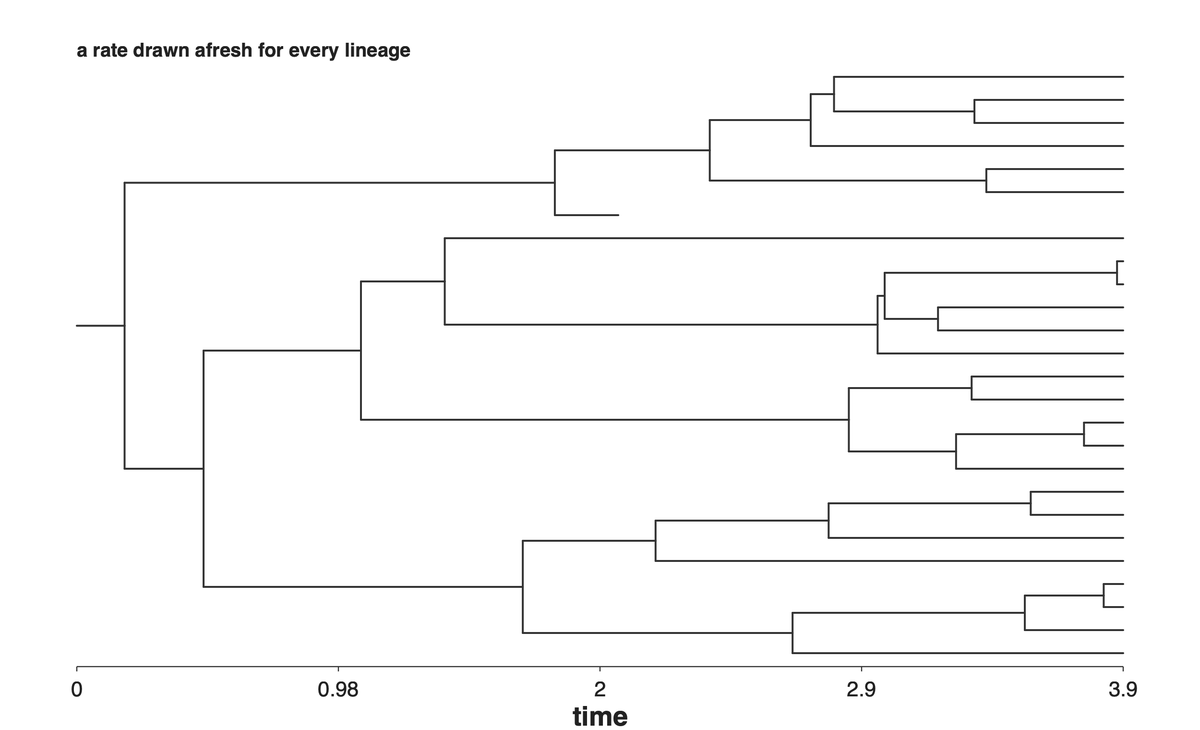
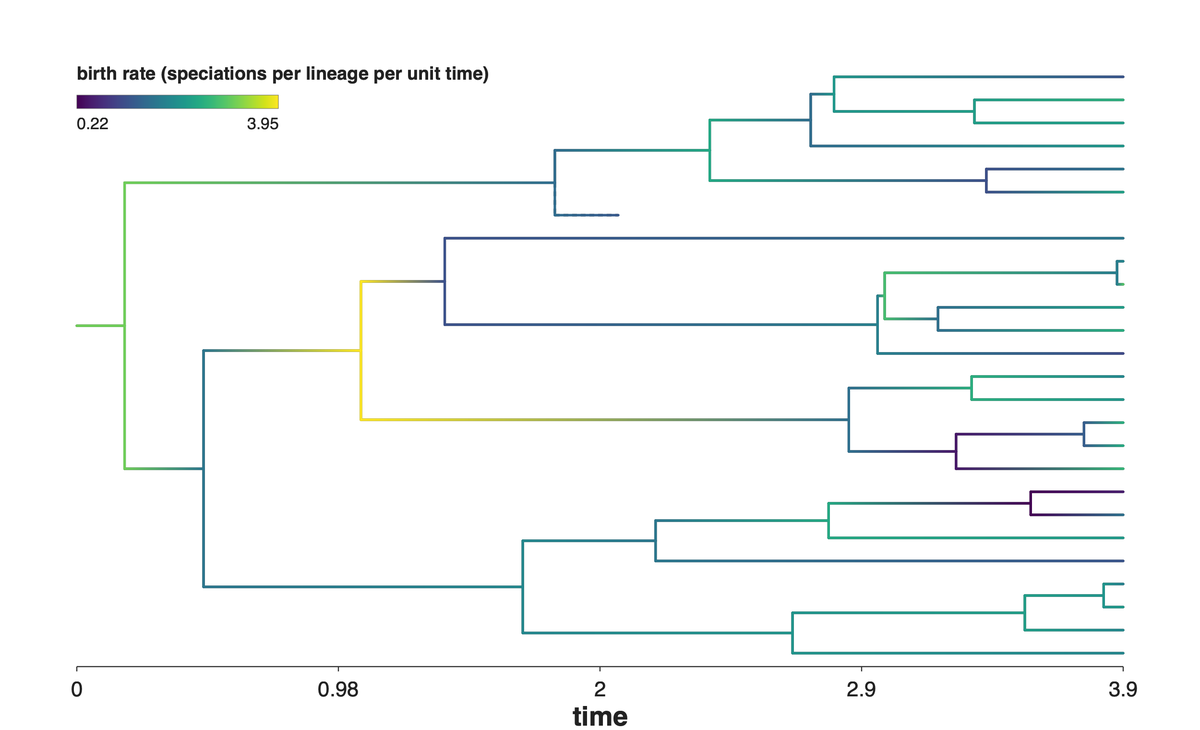
feat(species): a lineage says which rate it ran under
A tree records what happened, not the rate it happened under, and under
`varying_among('lineages', …)` those are different things: two runs with the same shape
can come from very different rates, and the number each lineage carried had nowhere to
be read. `SpeciesResult.lineage_rates("birth" | "death")` gives it back, keyed by
lineage as every output file names them, taken at the lineage's birth — which is when
its factors are drawn, and which the docstring says, because a rate that also depends
on time or diversity keeps moving along the branch.

The engine records it as it grows: no draw is added, so a run's stream is unchanged.

With it, the two varying-rate cards colour every branch by the rate that lineage ran
under, on one scale they share — inherited comes out in clades, independent
salt-and-pepper — and they are named for what they are, Inherited rates and Independent
rates. Their extinct branches are dashed, as everywhere else in the section, and the
label that sat in the corner is gone: the card's title already says which is which.

Ge4 is "Gene family heterogeneity". The protein alignment carries its letters, and each
amino acid now has its own shade of its class's hue (Phylustrator 0.2.11).

diff --git a/zombi2/species/__init__.py b/zombi2/species/__init__.py
@@ -65,6 +65,9 @@ class SpeciesResult:
     #: recovered fossils as ``(lineage_id, time)`` pairs, sorted by time — a side output, present
     #: only when ``fossils`` was set; the fossil's lineage is not removed and is not in the extant tree
     fossils: list[tuple[int, float]] = field(default_factory=list)
+    #: each lineage's own ``(birth, death)`` rate at the moment it was born, keyed by node id.
+    #: Read it through `lineage_rates`, which names the lineages as every output file does.
+    rates_at_birth: dict[int, tuple[float, float]] = field(default_factory=dict, repr=False)
 
     def __repr__(self) -> str:
         fossils = f", {len(self.fossils)} fossils" if self.fossils else ""
@@ -84,6 +87,28 @@ class SpeciesResult:
         ``simulate_species_tree`` refuses to return: a run with no present raises there instead, so a
         result that came from it always has one."""
         return prune(self.complete_tree, keep="extant")
+
+    def lineage_rates(self, kind: str = "birth") -> dict[str, float]:
+        """``{lineage: rate}`` — the rate that lineage itself ran under, in events per unit time.
+
+        A rate that varies among lineages gives every lineage a factor of its own, and the tree
+        records only what happened, not the rate it happened under: two runs with the same shape can
+        come from very different rates. This is that number, for the lineage rather than for the run
+        — the base with this lineage's own factors applied — so a branch can be coloured by it.
+
+        Taken **at the lineage's birth**, which is when its factors are drawn. A rate that also
+        depends on time or on standing diversity keeps moving along the branch afterwards; this is
+        its value at the start of it. A rate that varies among lineages in no way gives the same
+        number for every lineage, which is correct rather than useless: it is that rate.
+
+        Lineages are named as every output file names them (``n12``), so the result drops straight
+        into a plot keyed by tip name.
+        """
+        if kind not in ("birth", "death"):
+            raise ValueError(f"kind must be 'birth' or 'death', got {kind!r}")
+        label = self.complete_tree.labels()
+        j = 0 if kind == "birth" else 1
+        return {label[i]: r[j] for i, r in self.rates_at_birth.items() if i in label}
 
     def summary(self) -> dict:
         """What this run produced, as a plain dict — the payload of ``species_summary.json``.
@@ -200,7 +225,7 @@ def _per_lineage(rate) -> tuple:
 
 def _grow(rng, birth_rate, death_rate, n_extant: int | None, total_time: float | None,
           pulses: list[tuple[float, float]], progress: bool = False,
-          max_lineages: int | None = None) -> tuple[Tree, list[Event]]:
+          max_lineages: int | None = None) -> tuple[Tree, list[Event], dict[int, tuple[float, float]]]:
     """Grow one forward birth-death tree until it reaches ``n_extant`` living lineages,
     reaches ``total_time``, or dies out. Returns the complete tree and the event log.
 
@@ -210,6 +235,10 @@ def _grow(rng, birth_rate, death_rate, n_extant: int | None, total_time: float |
     daughter's factor is its parent's, nudged at the split (clade drift); under a per-lineage draw it is an
     independent draw with no memory of the parent (relaxed rates). Birth and death vary independently
     of each other. A rate with neither keeps a factor of 1 and picks uniformly, exactly as before.
+
+    The third return is each lineage's **own** birth and death rate at the moment it was born —
+    scope(base) times the factors that lineage carries — which is the only place that number exists:
+    the tree records what happened, not the rate it happened under.
 
     ``pulses`` are scheduled mass extinctions as ``(time, survival)`` pairs sorted by time (time runs
     forward from the origin): at each instant every standing lineage is kept with probability
@@ -240,6 +269,17 @@ def _grow(rng, birth_rate, death_rate, n_extant: int | None, total_time: float |
     inh_d = [values_at_birth(death_drift, rng, root_shared)]
     t = 0.0
     events: list[Event] = []
+    # each lineage's own (birth, death) rate at the moment it was born, keyed by node id. Evaluated
+    # at birth because that is when the lineage's factors are drawn; a rate that also depends on time
+    # or on diversity keeps moving afterwards, which `lineage_rates` says.
+    own: dict[int, tuple[float, float]] = {}
+
+    def record(node_id: int, fb: tuple, fd: tuple, at: float, n_alive: int) -> None:
+        ctx = {"time": at, "diversity": n_alive, "lineages": 1}
+        own[node_id] = (birth_rate.effective(carried_factor=math.prod(fb), **ctx),
+                        death_rate.effective(carried_factor=math.prod(fd), **ctx))
+
+    record(root, inh_b[0], inh_d[0], 0.0, 1)
     pulse_idx = 0  # the next unfired mass extinction in `pulses`
 
     # a tree grows toward whichever stop condition was given: a tip count, or a time
@@ -326,6 +366,8 @@ def _grow(rng, birth_rate, death_rate, n_extant: int | None, total_time: float |
                                   values_at_split(birth_drift, parent_b, rng, d2)))
                     inh_d.extend((values_at_split(death_drift, parent_d, rng, d1),
                                   values_at_split(death_drift, parent_d, rng, d2)))
+                    record(c1, inh_b[-2], inh_d[-2], t, len(alive))
+                    record(c2, inh_b[-1], inh_d[-1], t, len(alive))
                     events.append(Event(t, "speciation", node, (c1, c2)))
                 else:
                     nodes[node].end_time = t
@@ -368,7 +410,7 @@ def _grow(rng, birth_rate, death_rate, n_extant: int | None, total_time: float |
         nodes[i].end_time = t
         nodes[i].fate = "extant"
 
-    return Tree(nodes, root), events
+    return Tree(nodes, root), events, own
 
 
 def _mass_extinction_pulses(mass_extinctions, total_time: float | None) -> list[tuple[float, float]]:
@@ -555,7 +597,8 @@ def simulate_species_tree(birth, death=0.0, *, n_extant=None, total_time=None,
 
     rng, seed = stream("species", seed)     # own stream, and a drawn seed if none was given
 
-    def _finish(tree: Tree, events: list[Event]) -> SpeciesResult:
+    def _finish(tree: Tree, events: list[Event],
+                rates: dict[int, tuple[float, float]]) -> SpeciesResult:
         # observe (sampling relabels survivors) then recover fossils along the grown branches
         alive = sum(1 for nd in tree.nodes.values() if nd.fate == "extant")
         _apply_sampling(tree, sampling, rng)
@@ -571,11 +614,11 @@ def simulate_species_tree(birth, death=0.0, *, n_extant=None, total_time=None,
                 f"or trait along. This is the sampling process, not a bad parameter — it has "
                 f"probability {(1 - sampling) ** alive:.3g} here — so raise sampling, ask for more "
                 f"survivors, or draw another seed.")
-        return SpeciesResult(tree, events, seed, _recover_fossils(tree, fossils, rng))
+        return SpeciesResult(tree, events, seed, _recover_fossils(tree, fossils, rng), rates)
 
     if total_time is not None:
-        tree, events = _grow(rng, birth_rate, death_rate, None, total_time, pulses, progress,
-                             max_lineages)
+        tree, events, rates = _grow(rng, birth_rate, death_rate, None, total_time, pulses, progress,
+                                    max_lineages)
         # A time-conditioned run is not conditioned on survival, so with death ≥ birth it can reach
         # total_time with nothing alive. An empty tree is not a sample anyone can use — the extant
         # tree is None and every downstream level would otherwise mistake the last-dying tip for a
@@ -586,13 +629,13 @@ def simulate_species_tree(birth, death=0.0, *, n_extant=None, total_time=None,
                 f"present, so there is nothing to grow a genome, sequence or trait along. With death "
                 f"close to or above birth, total extinction is likely — lower death, shorten "
                 f"total_time, or use n_extant=... (which is conditioned on survival).")
-        return _finish(tree, events)
+        return _finish(tree, events, rates)
 
     for _ in range(_MAX_ATTEMPTS):
-        tree, events = _grow(rng, birth_rate, death_rate, n_extant, None, [], progress,
-                             max_lineages)
+        tree, events, rates = _grow(rng, birth_rate, death_rate, n_extant, None, [], progress,
+                                    max_lineages)
         if sum(1 for nd in tree.nodes.values() if nd.fate == "extant") == n_extant:  # survivors (pre-sampling)
-            return _finish(tree, events)
+            return _finish(tree, events, rates)
     raise RuntimeError(
         f"could not grow a tree to {n_extant} extant lineages in {_MAX_ATTEMPTS} attempts; "
         "birth must comfortably exceed death for large n_extant"

diff --git a/gallery/species.py b/gallery/species.py
@@ -91,27 +91,68 @@ def diversity_dependent(out):
 #: figure, so the picture here is the panel there rather than a second run of the same idea.
 _VARY = dict(death=0.1, n_extant=25, seed=3)
 
+#: The two ways a birth rate can vary among lineages, as chapter 3 draws them: inherited at each
+#: split and nudged from the parent's, or drawn afresh with no memory of it. Same base as the book's
+#: figure — the drifting one starts lower because drift accumulates down a path and the independent
+#: one does not.
+_VARYING = {
+    "inherited": PerLineage(0.45).varying_among("lineages", Drift(LogNormal(0.0, 0.5))),
+    "independent": PerLineage(0.85).varying_among("lineages", LogNormal(0.0, 0.5)),
+}
 
-def _bare_tree(sp, out, note):
-    tree = ph.trees.loads(sp.complete_tree.to_newick())
-    style = ph.Style(width=1250, height=760, margin=80, branch_width=2.0)
-    (ph.trees.plot(tree, style=style)
-     + ph.trees.note(note, loc="top-left", size=20, dy=-14)
+_RATE_CACHE: dict = {}
+
+
+def _rate_panels() -> dict:
+    """Both runs, and the colour scale they share: ``{name: (tree, dashed, log rates)}`` + ``limits``.
+
+    Grown together and cached because the pair is a comparison. Coloured independently, each would
+    normalise to its own range and the same green would mean a different rate on the two cards. The
+    scale is logarithmic (these rates are lognormal) and clipped to the pooled 2nd-98th percentile,
+    so one runaway lineage cannot flatten the rest."""
+    import math
+
+    if _RATE_CACHE:
+        return _RATE_CACHE
+    panels, every = {}, []
+    for name, birth in _VARYING.items():
+        sp = simulate_species_tree(birth=birth, **_VARY)
+        ct = sp.complete_tree
+        tree = ph.trees.loads(ct.to_newick())
+        logr = {k: math.log10(v) for k, v in sp.lineage_rates().items()}
+        panels[name] = (tree, h.dashed_extinct(tree, ct), logr)
+        every += list(logr.values())
+    every.sort()
+    lo, hi = every[int(0.02 * len(every))], every[int(0.98 * len(every)) - 1]
+    _RATE_CACHE.update(panels=panels, limits=(lo, hi))
+    return _RATE_CACHE
+
+
+def _rate_tree(name, out):
+    """One card: the complete tree, each branch coloured by the rate that lineage itself ran under.
+
+    Extinct branches dashed, as everywhere else in this section. No note on the figure: the card's
+    title and caption say which kind of variation this is, and a label inside the picture would be
+    the third place saying it."""
+    got = _rate_panels()
+    tree, dashed, logr = got["panels"][name]
+    style = ph.Style(width=1250, height=760, margin=80, branch_width=2.6)
+    (ph.trees.plot(tree, dashed=dashed, style=style)
+     + ph.trees.color_branches(logr, cmap="viridis", limits=got["limits"])
+     + ph.trees.colorbar("birth rate  (speciations per lineage per unit time)", loc="top-left",
+                         width=210, height=14, size=19,
+                         labels=tuple(f"{10 ** v:.2f}" for v in got["limits"]))
      + ph.trees.time_axis("time", tick_size=22, label_size=28)).save(out)
 
 
 def inherited_rates(out):
     """Each lineage inherits its parent's rate and drifts from it, so clades run at their own tempo."""
-    sp = simulate_species_tree(
-        birth=PerLineage(0.45).varying_among("lineages", Drift(LogNormal(0.0, 0.5))), **_VARY)
-    _bare_tree(sp, out, "a rate inherited at each split, then nudged")
+    _rate_tree("inherited", out)
 
 
 def lineage_rates(out):
     """Each lineage draws its own rate, with no memory of its parent."""
-    sp = simulate_species_tree(
-        birth=PerLineage(0.85).varying_among("lineages", LogNormal(0.0, 0.5)), **_VARY)
-    _bare_tree(sp, out, "a rate drawn afresh for every lineage")
+    _rate_tree("independent", out)
 
 
 # --- many trees, measured (local to this module: helpers.py is shared) ------
@@ -366,11 +407,11 @@ EXAMPLES = [
     Example("diversity", "Diversity-dependent",
             "Speciation slows as diversity fills up; the skyline rises and plateaus at the cap of 100.",
             "birth · TotalDiversity", diversity_dependent, code=_C_DIVERSITY),
-    Example("inherited", "A rate inherited, then drifting",
+    Example("inherited", "Inherited rates",
             "Each lineage starts at its parent's rate and is nudged from it, so close relatives run "
             "at similar speeds and one clade radiates while its sister stays sparse.",
             "birth · Drift", inherited_rates, code=_C_INHERITED),
-    Example("perlineage", "A rate per lineage",
+    Example("perlineage", "Independent rates",
             "The same distribution without the inheritance: every lineage draws for itself, so a "
             "fast lineage tells you nothing about its neighbours.",
             "birth · LogNormal", lineage_rates, code=_C_PERLINEAGE),

diff --git a/tests/test_species_tree.py b/tests/test_species_tree.py
@@ -1,5 +1,6 @@
 """Tests for the forward birth-death engine (species)."""
 
+import math
 import re
 
 import pytest
@@ -265,6 +266,42 @@ def test_clade_drift_is_deterministic_given_seed():
     a = simulate_species_tree(**kw)
     b = simulate_species_tree(**kw)
     assert [(e.time, e.kind, e.node) for e in a.events] == [(e.time, e.kind, e.node) for e in b.events]
+
+
+def test_a_lineage_says_which_rate_it_ran_under():
+    """The tree records what happened; `lineage_rates` records the rate it happened under.
+
+    Inherited drift, so the numbers differ between lineages and a daughter starts near its parent —
+    and every lineage of the tree has one, extinct ones included, since the rate is what it ran under
+    whether or not it left descendants."""
+    r = simulate_species_tree(
+        birth=PerLineage(1.0).varying_among('lineages', Drift(LogNormal(0.0, 0.5))),
+        death=0.2, n_extant=30, seed=3)
+    rates = r.lineage_rates()
+    label = r.complete_tree.labels()
+    assert set(rates) == {label[i] for i in r.complete_tree.nodes}
+    assert len(set(rates.values())) > 1                       # a rate per lineage, not one for all
+    assert all(v > 0 for v in rates.values())
+    # death carries no per-lineage variation here, so every lineage ran under the one number
+    assert set(r.lineage_rates("death").values()) == {0.2}
+    with pytest.raises(ValueError, match="birth"):
+        r.lineage_rates("speciation")
+
+    # a daughter's rate is its parent's, nudged: the pairs at a split are closer to each other than
+    # two lineages picked at random from the tree are
+    import statistics
+    nodes = r.complete_tree.nodes
+    kin = [abs(math.log(rates[label[c]] / rates[label[i]]))
+           for i, n in nodes.items() if n.children for c in n.children]
+    every = sorted(math.log(v) for v in rates.values())
+    spread = statistics.pstdev(every)
+    assert statistics.mean(kin) < spread
+
+
+def test_a_rate_that_varies_in_no_way_is_the_same_for_every_lineage():
+    r = simulate_species_tree(birth=1.0, death=0.3, n_extant=20, seed=1)
+    assert set(r.lineage_rates().values()) == {1.0}
+    assert set(r.lineage_rates("death").values()) == {0.3}
 
 
 def test_inherited_zero_spread_reaches_target():

diff --git a/gallery/sequences.py b/gallery/sequences.py
@@ -129,15 +129,16 @@ def alignment_beside_tree(out):
 def protein_beside_tree(out):
     """The same picture in the other alphabet: LG down the same twenty species.
 
-    Residues are coloured by chemical **class**, not one hue each, so what the column shows is where
-    the chemistry is conserved — a column that stays blue while its letters change is a run of
-    different hydrophobic residues, which is not the same thing as a column that stays put."""
+    Each residue has its own shade of its chemical class's hue, and carries its letter, so a column
+    reads twice: one hue down the column is conserved chemistry, and one shade is a conserved
+    residue — a column of blues whose letters change is a run of different hydrophobics, which is
+    not the same thing as a column that stays put."""
     run = h.protein_run()                                # 20 species, LG, 60 residues
     tree = ph.trees.read(run + "/species/species_extant.nwk")
     fam = _best_single_copy(ph.zombi.read_profiles(run))
     aln = ph.zombi.read_alignment(run, fam)
     fig = ph.trees.plot(tree, style=h.style())                            # no leaf labels
-    ph.beside(fig, ph.genomes.alignment(aln, palette=ph.genomes.AA_COLORS, letters=False,
+    ph.beside(fig, ph.genomes.alignment(aln, palette=ph.genomes.AA_COLORS, letters=True,
                                         legend=True),                     # the six-class key
               width=1150, tree_fraction=0.30, footer=70).save(out)
 
@@ -295,7 +296,7 @@ import phylustrator as ph
 tree = ph.trees.read("run/species/species_extant.nwk")
 aln = ph.zombi.read_alignment("run", family=2)
 ph.beside(ph.trees.plot(tree),
-          ph.genomes.alignment(aln, palette=ph.genomes.AA_COLORS, letters=False),
+          ph.genomes.alignment(aln, palette=ph.genomes.AA_COLORS),
           footer=70).save("protein.png")'''
 
 

diff --git a/gallery/genomes.py b/gallery/genomes.py
@@ -860,7 +860,7 @@ EXAMPLES = [
             "Transfers steered to run <i>between</i> two clades, by topology rather than by a trait. The "
             "barplot counts them by clade pair, so A↔B towers over within-clade.",
             "transfer_to · Clades", transfer_highway, code=_C_HIGHWAY),
-    Example("genome_pangenome_by_family", "Rates that vary among gene families",
+    Example("genome_pangenome_by_family", "Gene family heterogeneity",
             "Two runs at the same mean rates. Every family alike gives no core at all; letting families "
             "differ gives 28 core families and a U-shaped spectrum.",
             "varying_among('families')", pangenome_by_family, code=_C_PANGENOME),

diff --git a/manual/book/appendix-b.md b/manual/book/appendix-b.md
@@ -76,6 +76,7 @@ writes, which are left as they are.
 | Summary | `species_summary.json` | JSON | yes | what the run produced — counts by fate, tree height, stem, total branch length, the realised birth and death rates, and the seed |
 | The trees | `.complete_tree` · `.extant_tree` | Tree | Python | the whole tree that grew, extinct lineages and all — **this is what the next level runs along**, which is what lets a gene be transferred out of a lineage that later dies — and the survivors' tree, dated and bifurcating, which is the tree an analysis would be handed. Each holds every node, internal ones included, in `.nodes`, and answers `.leaves()`, `.extant_leaves()`, `.extinct_leaves()` and `.unsampled_leaves()` |
 | Fossils | `.fossils` | list | Python | the sampled fossil lineages and the times they were sampled at, present when the run asked for `fossils` |
+| Lineage rates | `.lineage_rates(kind)` | dict | Python | `{lineage: rate}` — the birth (or `"death"`) rate each lineage itself ran under, taken at the lineage's birth, which is when its factors are drawn. Every lineage of the complete tree has one, extinct ones included. A rate that varies among lineages gives each a different number; one that does not gives the same number for all of them. Under a rate that also depends on time or diversity, this is its value at the start of the branch |
 
 ¹ written only if fossil sampling recovered any.
 

diff --git a/CHANGELOG.md b/CHANGELOG.md
@@ -11,10 +11,13 @@ which moves the entries below from `[Unreleased]` into a dated version section.
 
 ### Added
 
+- `SpeciesResult.lineage_rates("birth" | "death")` — the rate each lineage itself ran under,
+  keyed by lineage, taken at its birth. A tree records what happened, not the rate it happened
+  under, so under `varying_among('lineages', …)` that number had nowhere to be read. (#360)
 - Three examples in the gallery: a protein alignment, coloured by chemical class rather than
   one hue per residue, and the two remaining ways a species-tree rate can vary — inherited at
-  each split and then nudged, or drawn afresh by every lineage. Chapter 3 drew four and the
-  gallery showed two. (#360)
+  each split and then nudged, or drawn afresh by every lineage, both with their branches
+  coloured by the rate they ran under. Chapter 3 drew four and the gallery showed two. (#360)
 
 ### Changed
 
